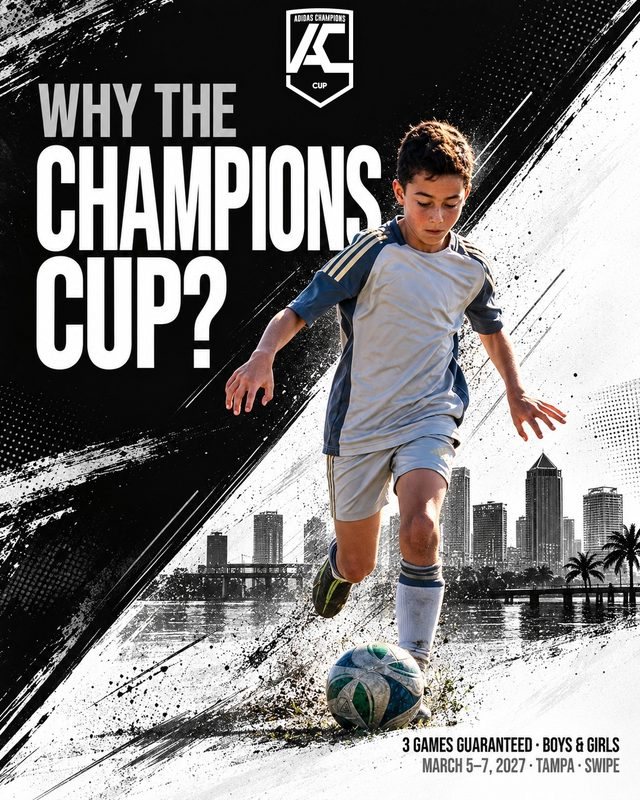
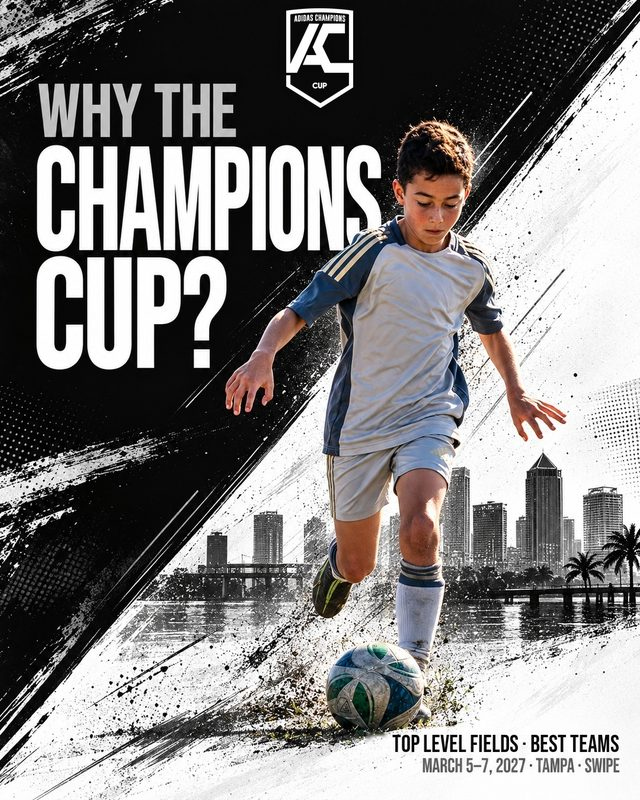
Pilar 'Why the Champions Cup' con el mensaje de Alessandro y portada 1028 actualizada

Changed region(s): [[0.5625, 0.9062, 0.9688, 0.9375]]

diff --git a/index.html b/index.html
@@ -166,7 +166,7 @@ footer{padding:36px 0 50px;color:var(--gris);font-size:13px;text-align:center;bo
   <div class="pilares">
     <div><b>Hype &amp; dates</b><p>Season opener, "Tampa in March", countdown and last call before registration closes.</p></div>
     <div><b>Relive 2026</b><p>Unseen photos from the 2026 edition; clubs are invited to tag themselves.</p></div>
-    <div><b>Why the Champions Cup</b><p>Reasons for coaches and directors: fields, competition, management, 3+ games.</p></div>
+    <div><b>Why the Champions Cup</b><p>Reasons for coaches and directors: top level fields, one complex, a 360° experience, Florida's best teams and professional management.</p></div>
     <div><b>Girls divisions</b><p>Dedicated posts to bring more girls teams to Tampa.</p></div>
     <div><b>Clubs are in</b><p>"Welcome" posts as clubs register, which builds momentum and social proof.</p></div>
     <div><b>Tournament weekend</b><p>Daily coverage, live stories, champions and the recap reel.</p></div>
